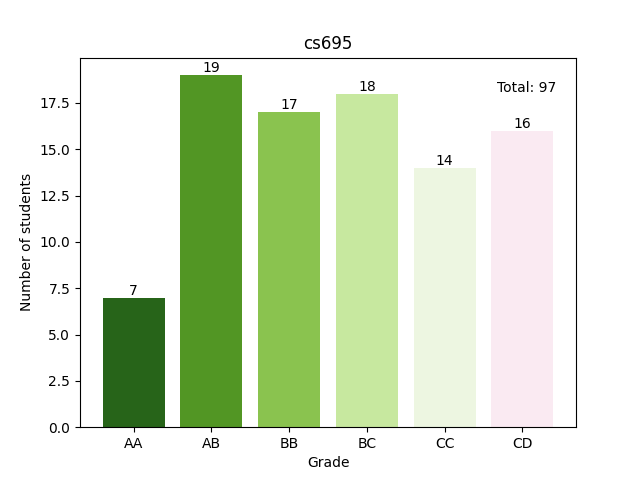
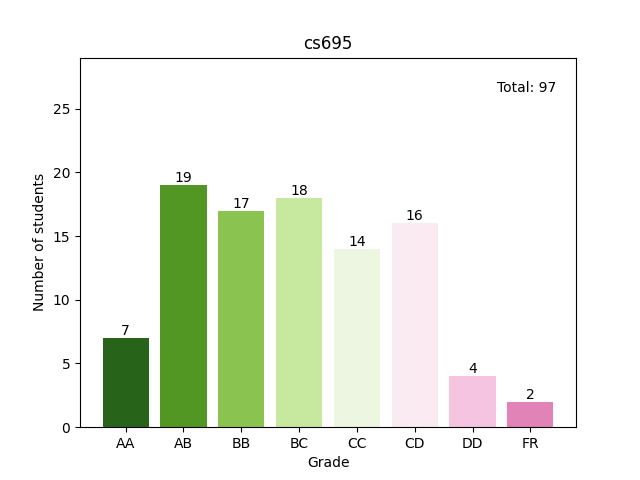
debugged plots, started frontend styling

diff --git a/MODULE-WEB/script.js b/MODULE-WEB/script.js
@@ -32,11 +32,12 @@ function populateCourseDetails(courseCode) {
         "code",
         "title",
         "instructor",
+        "year",
+        "semester",
         "slot",
+        "clashing_courses",
         "venue",
         "difficulty",
-        "projects",
-        "recommended",
         "strength",
       ];
 
@@ -51,10 +52,11 @@ function populateCourseDetails(courseCode) {
             key = "Course Code";
           }
 
-          if (key == "projects") {
-            key = "Contains Projects";
+          if (key == "clashing_courses") {
+            key = "Clashing Courses";
           }
-          attributeCell.textContent = formatKey(key);
+          
+          attributeCell.innerHTML = formatKey(key);
           attributeCell.classList.add("font-weight-bold");
           row.appendChild(attributeCell);
           row.appendChild(valueCell);
@@ -89,6 +91,11 @@ async function fetchImages(filename) {
     const data = await response.json();
 
     const imageContainer = document.getElementById("imageContainer");
+    if (data.image_paths.length === 0) {
+      console.log(data);
+      imageContainer.innerHTML = "No grading stats found.";
+      return;
+    }
     imageContainer.innerHTML = "";
 
     data.image_paths.forEach((image) => {
@@ -97,6 +104,8 @@ async function fetchImages(filename) {
       img.alt = `Graph analysis for ${image.year} year`;
 
       const heading = document.createElement("h6");
+      heading.classList.add("text-center");
+      heading.classList.add("font-weight-bold");
       heading.textContent = `Year: ${image.year}`;
 
       imageContainer.appendChild(heading);

diff --git a/MODULE-WEB/index.html b/MODULE-WEB/index.html
@@ -31,8 +31,8 @@
     <div class="row justify-content-center">
       <div class="col-md-6">
         <input type="text" id="searchBar" class="form-control" placeholder="Enter Course Code" >
-        <div class="input-group-append">
-          <button class="btn btn-outline-secondary bg-info text-white" type="button"
+        <div class="m-3 align-items-center justify-content-center">
+          <button class=" btn btn-outline-secondary bg-info text-white" type="button"
             onclick="searchCourse()">Search</button>
         </div>
       </div>
@@ -48,9 +48,11 @@
           </tbody>
         </table>
         <!-- course graph plot image -->
-        <div id="imageContainer"></div>
+        
       </div>
+      
   </div>
+  <div id="imageContainer"></div>
 
 
 </body>

diff --git a/MODULE-GRADING/plot.py b/MODULE-GRADING/plot.py
@@ -26,16 +26,22 @@ for file in json_files:
             # get the values of grades to int from string
             grades = {k: int(v) for k, v in grades.items() if k != 'course' and k != 'year'}
             # plot the grades dictionary, maintain the order of keys and x axis labels as keys
-            plt.bar(range(len(grades)-3), list(grades.values())[:-3], align='center', color=color_list)
+            plt.bar(range(len(grades)-1), list(grades.values())[:-1], align='center', color=color_list)
             # show y axis as integers and y value on bar
-            for k,v in enumerate(list(grades.values())[:-3]):
+            for k,v in enumerate(list(grades.values())[:-1]):
                 plt.text(k, v, str(v), ha='center', va='bottom')
             # add text at top right saying total number of students
             plt.text(0.9, 0.9, 'Total: '+str(grades['Total']), ha='center', va='bottom', transform=plt.gca().transAxes)
-            plt.xticks(range(len(grades)-3), list(grades.keys())[:-3])
+            plt.xticks(range(len(grades)-1), list(grades.keys())[:-1])
             plt.xlabel('Grade')
             plt.ylabel('Number of students')  
             plt.title(list(course.keys())[0])
+            if len(grades.values())>2:
+                max_val = max(list(grades.values())[:-1])
+            else:
+                max_val = 5
+            plt.axis(ymin=0, ymax=max_val+10)
+           
             file_saved = file.split('.')[0]+'/'
             if not os.path.exists(file_saved):
                 os.makedirs(file_saved)

diff --git a/MODULE-API/getCourseDetails.py b/MODULE-API/getCourseDetails.py
@@ -130,6 +130,9 @@ def get_course_analysis(code):
     if year != None and semester != None:
         result['year'] = year
         result['semester'] = semester
+    else:
+        result['title'] = 'Not Available'
+    
 
     # get course details from csv file - venue, instructor, title, slot
     if 'year' in result and 'semester' in result:
@@ -139,6 +142,7 @@ def get_course_analysis(code):
             result['slot'] = slot
         if not title == None:
             result['title'] = title
+        
         if not venue == None:
             result['venue'] = venue
         if not instructor == None:
@@ -147,7 +151,8 @@ def get_course_analysis(code):
     # get clashing courses from csv file for current sem and year
     if 'slot' in result:
         clashing_courses = get_clashing_courses(code, slot, year, semester)
-        result['clashing_courses'] = clashing_courses
+        output = ', '.join(clashing_courses)
+        result['clashing_courses'] = output
 
     # get course strength from grading stats (avg?)
     strength = get_course_strength(code)

diff --git a/README.md b/README.md
@@ -1,25 +1,26 @@
 # course-analysis-swlab
 Analyze courses of IITB CS and help compare different courses!
 ---
-- Timetable -> slot retreival - **bash script** - _OUTPUT: CSV_
-- Grading statistics - scrap from asc - **py script**
-    - Store the data for diff courses - **py**
-    - Graphically analyze % of top grades etc. **py**
-- Course webpage - for components and weightage - **Web dev**
-- Feedback for difficulty & stream! 
+### DIFFERENT MODULES of the project:
+- Timetable -> Details like slot, venue, instructor - **bash script, python** - _OUTPUT: CSV_
+- Grading -> Scrap from asc - **py script**
+    - Store the data for diff courses in json - **py**  _OUTPUT: JSON_
+    - Graphically analyze % of top grades etc. **py**  _OUTPUT: PNG_
+- Web - for components and weightage - **Web HTML, CSS, JS**
+- API - **Flask Python**
+
 
 ----
 
-
-- Webpage to display & compare
-- Webpage to get feedback from prev coursework
 
 ----
 **Requirements**:
-install:
-selenium webdriver - firefox (check geckodriver n put in path)
-
-install poppler-utils for pdf to text conversion
-
+Python requirements:
+selenium
 flask
 flask_cors
+numpy
+matplotlib
+
+
+Install poppler-utils for pdf to text conversion in bash
